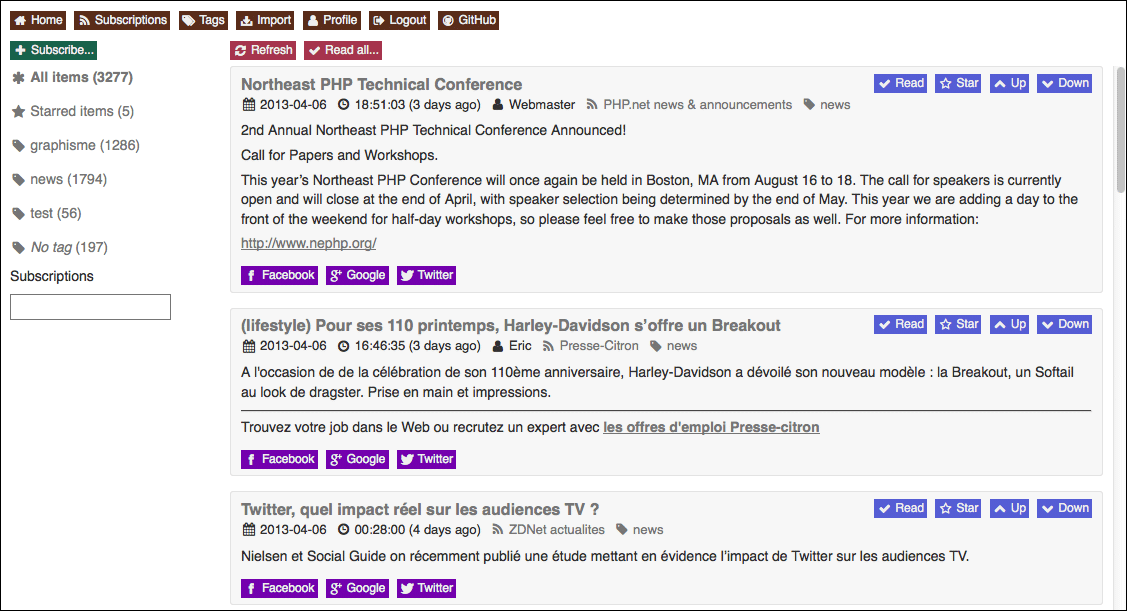
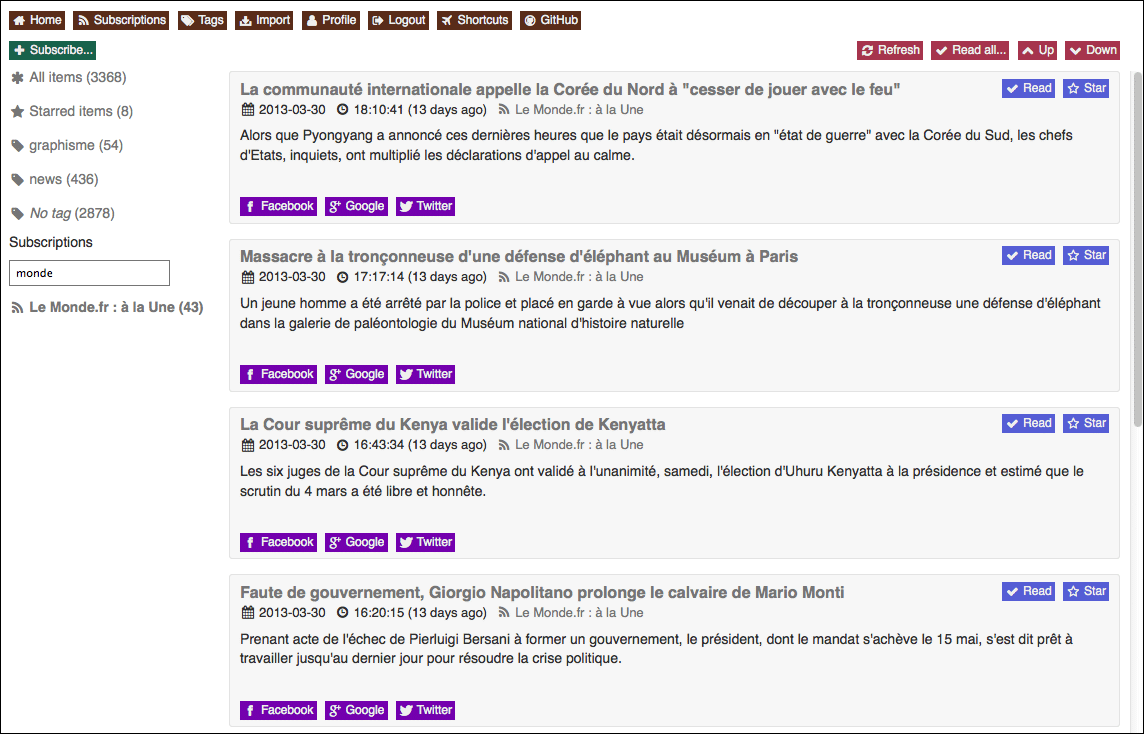
-

Changed region(s): [[0.0, 0.0, 1.0, 1.0]]

diff --git a/styles/home.css b/styles/home.css
@@ -1,12 +1,13 @@
 #shortcuts li{margin:10px 0px;}
-#content{margin:10px 0px 0px 230px;max-width:1200px;}
-#content .actions{margin-right:20px;text-align:right;}
+#actions-main{margin:10px 20px 0px 230px;max-width:1225px;}
+#actions-main .actions{text-align:right;}
+#content{margin:10px 0px 0px 230px;}
 #items{height:auto;overflow-x:hidden;overflow-y:auto;position:relative;}
 #sidebar{float:left;height:auto;margin:10px 0px 0px 10px;overflow-x:hidden;overflow-y:auto;width:200px;}
 #sidebar-display{background-color:#f5f5f5;border:1px solid #e3e3e3;border-radius:3px 3px 3px 3px;padding:10px;}
 #sidebar .actions a:link, #sidebar .actions a:visited{background-color:#21634C;}
 #sidebar .menu li.result{margin:0px 0px 0px 0px;}
-.item{background-color:#f5f5f5;border:1px solid #e3e3e3;border-radius:3px 3px 3px 3px;padding:5px 10px 5px 10px;margin:0px 10px 15px 0px;}
+.item{background-color:#f5f5f5;border:1px solid #e3e3e3;border-radius:3px 3px 3px 3px;padding:5px 10px 5px 10px;margin:0px 10px 15px 0px;max-width:1200px;}
 .item-selected{border:1px solid #000000;}
 .item h2{font-size:16px;font-weight:bold;margin:5px 0px;}
 .item h2 a:link,.item h2 a:visited{text-decoration:none;}
@@ -24,6 +25,7 @@
 .item table td{background-color:transparent!important;border:none;}
 @media(max-width:1024px){
 #content{margin:10px 0px 0px 10px;}
+#actions-main{margin:5px 20px 0px 10px;}
 #sidebar{display:none;}
 }
 @media(max-width:400px){

diff --git a/application/views/home_index.php b/application/views/home_index.php
@@ -19,13 +19,15 @@
 		</li>
 	</ul>
 </div>
-<div id="content">
+<div id="actions-main">
 	<ul class="actions">
 		<li><a href="#" id="refresh-items"><i class="icon icon-refresh"></i><?php echo $this->lang->line('refresh'); ?></a></li>
 		<li class="hide-phone"><a href="<?php echo base_url(); ?>home/history/dialog" id="read_all" class="modal_show"><i class="icon icon-ok"></i><?php echo $this->lang->line('mark_all_as_read'); ?>...</a></li>
 		<li><a href="#" id="item-up"><i class="icon icon-chevron-up"></i><?php echo $this->lang->line('up'); ?></a></li>
 		<li><a href="#" id="item-down"><i class="icon icon-chevron-down"></i><?php echo $this->lang->line('down'); ?></a></li>
 	</ul>
+</div>
+<div id="content">
 	<div id="items">
 		<div id="items-display">
 		</div>
